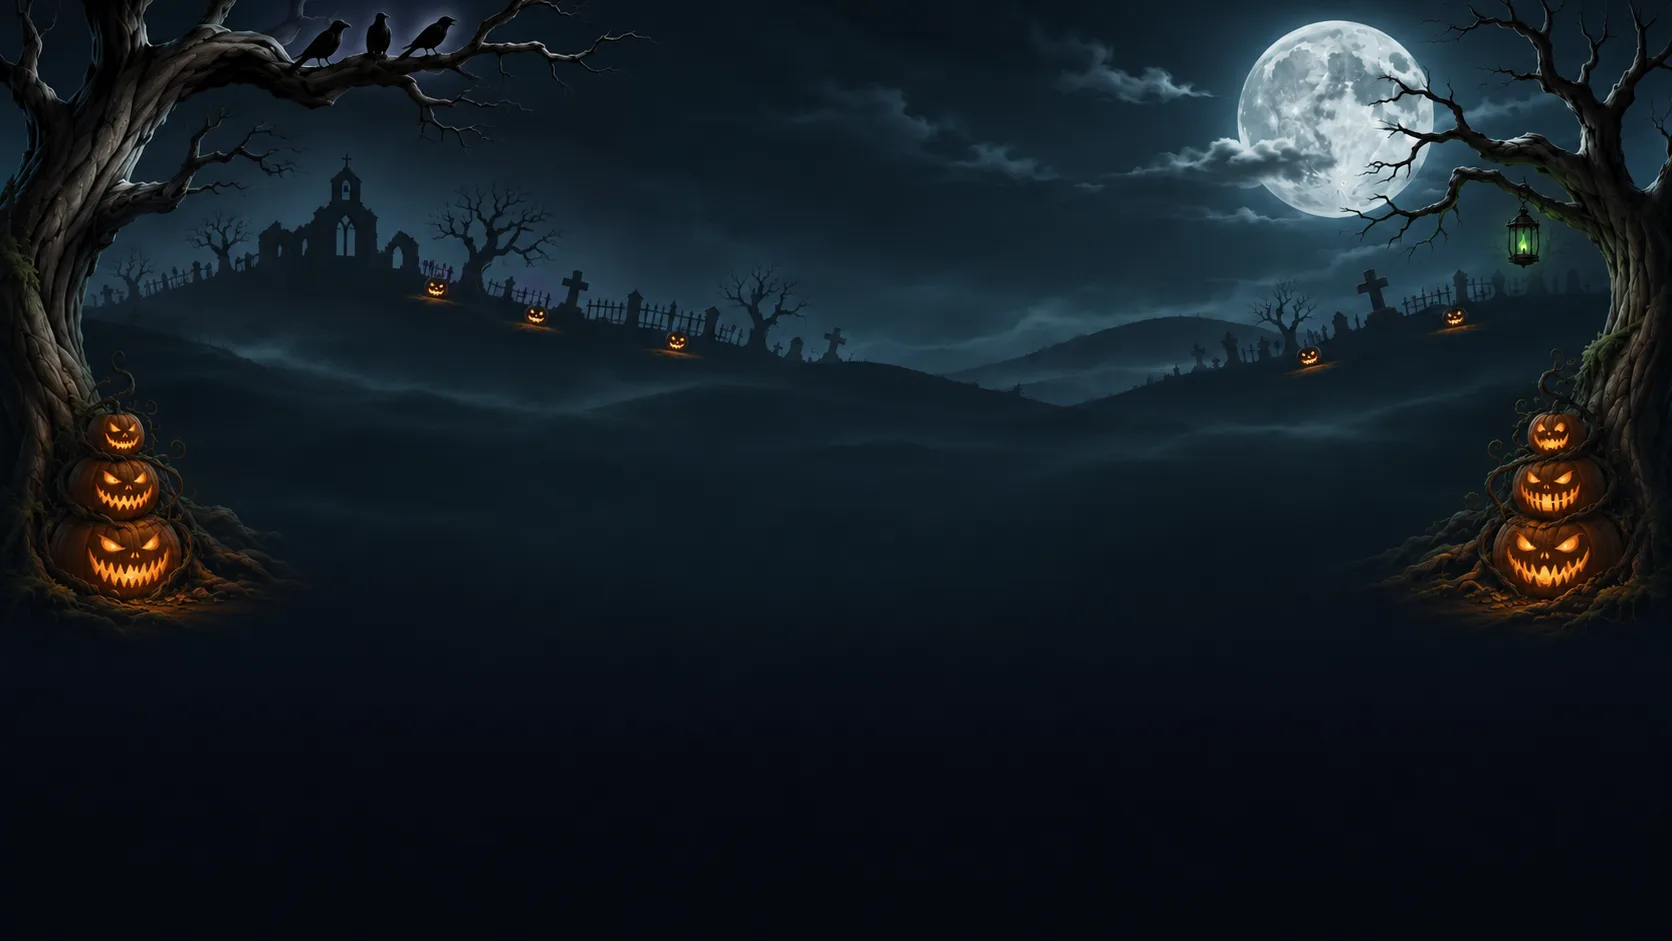
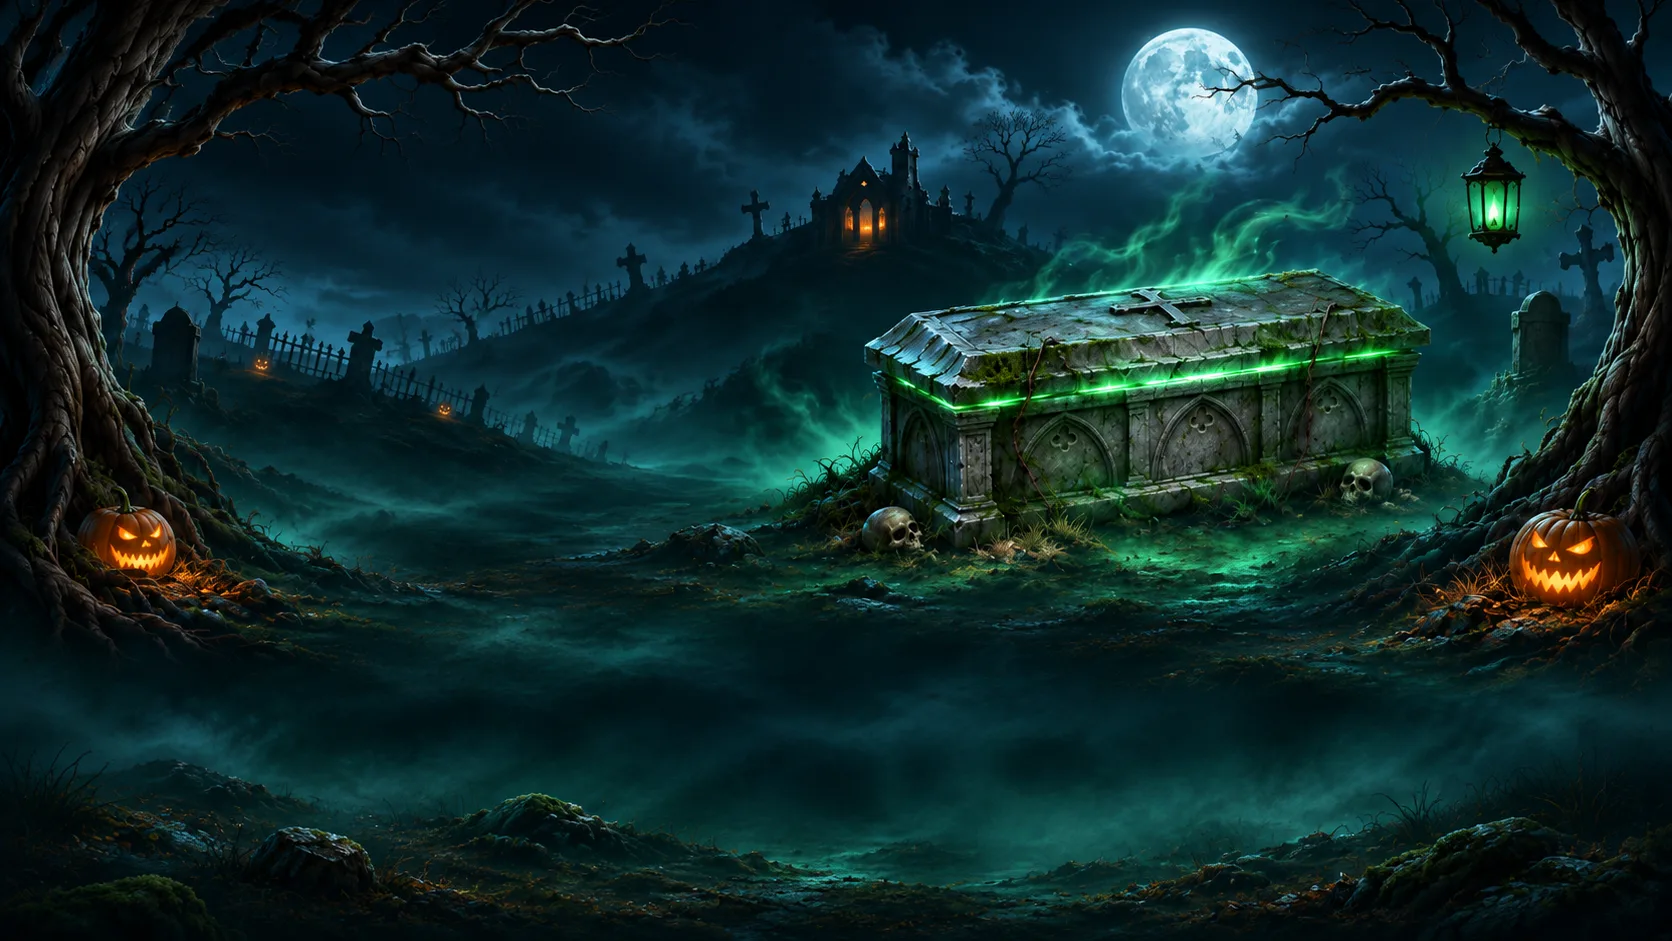
Web: switch to the user's necropolis backdrop and drop the far zombies
The user made a new backdrop (ChatGPT) matching their landing mockup:
greener and brighter, a lit chapel in the centre, pumpkins at the tree
feet, a green lantern and a sarcophagus with skulls in the middle
right (our drop zone goes over that in the next commit). Same
1672 x 941 framing, 173 KB as WebP.

All lights placed on the picture were moved to the new spots: moon
glow, chapel light (now on its three lit windows), two big and two
small pumpkin glows and the lantern; positions measured from bright
blobs in the picture where possible, the small pumpkins by eye. The
dark overlay on the sky is lighter so the painting reads as in the
mockup; the hero text has its own shadow. The far zombies are removed
(undead.ts, its rule and art/zombie-sheet.png): this picture has no
open ridge for them.

Checked: typecheck:web passes; viewed in the preview pane at
1440 x 900 with the glows held still. Not yet viewed in Chrome.

diff --git a/web/client/src/main.ts b/web/client/src/main.ts
@@ -4,7 +4,6 @@ import { svg } from './dom';
 import { renderJob } from './job';
 import { renderLanding } from './landing';
 import { renderResult } from './result';
-import { raiseTheDead } from './undead';
 
 const main = document.getElementById('main') as HTMLElement;
 let cleanup: (() => void) | null = null;
@@ -23,11 +22,9 @@ function decorate(): void {
     // Candle light flickering in the painted jack-o'-lanterns and the lantern: [class, x %, y %, width %],
     // measured on the backdrop. Each gets its own pace so they never pulse together.
     const flames: Array<[string, number, number, number]> = [
-      ['pumpkin-glow', 7.3, 46.2, 4], ['pumpkin-glow', 7.6, 52.1, 5.5], ['pumpkin-glow', 7.8, 59.5, 7],
-      ['pumpkin-glow', 92.7, 46.2, 4], ['pumpkin-glow', 92.7, 52.1, 5.5], ['pumpkin-glow', 92.7, 59.5, 7],
-      ['pumpkin-glow', 26.1, 30.5, 2.6], ['pumpkin-glow', 32.1, 33.5, 2.6], ['pumpkin-glow', 40.5, 36.2, 2.6],
-      ['pumpkin-glow', 78.2, 37.8, 2.6], ['pumpkin-glow', 86.9, 33.7, 2.6],
-      ['lantern-glow', 91.0, 25.7, 2.4],
+      ['pumpkin-glow', 8.4, 59.2, 7.5], ['pumpkin-glow', 93.4, 60.8, 8],
+      ['pumpkin-glow', 15.7, 38.5, 2.4], ['pumpkin-glow', 26.5, 43.6, 2.4],
+      ['lantern-glow', 89.5, 20.5, 3],
     ];
     for (const [c, x, y, w] of flames) {
       const el = document.createElement('span');
@@ -36,7 +33,6 @@ function decorate(): void {
       scene.append(el);
     }
     sky.prepend(scene);
-    raiseTheDead(scene);
     sky.append(svg(HORIZON));
     // Bats crossing the sky: a painted sprite (art/bat-sheet.webp) flapped and flown by CSS.
     // and now and then a ghost drifting through (art/ghost.webp), flown by CSS

diff --git a/web/client/src/styles/base.css b/web/client/src/styles/base.css
@@ -593,7 +593,7 @@ main:focus {
   content: '';
   position: absolute;
   inset: 0;
-  background: linear-gradient(180deg, rgba(5, 7, 11, 0.15) 0%, rgba(5, 7, 11, 0.45) 45%, rgba(5, 7, 11, 0.2) 100%);
+  background: linear-gradient(180deg, rgba(5, 7, 11, 0.12) 0%, rgba(5, 7, 11, 0.22) 45%, rgba(5, 7, 11, 0.15) 100%);
 }
 .sky .moon,
 .sky .stars,
@@ -618,9 +618,9 @@ main:focus {
 }
 
 .moon-glow {
-  left: 80.1%;
-  top: 12.6%;
-  width: 22%;
+  left: 71.1%;
+  top: 8%;
+  width: 19%;
   aspect-ratio: 1;
   background: radial-gradient(circle, rgba(200, 225, 240, 0.22) 0 26%, rgba(160, 200, 230, 0.1) 42%, transparent 68%);
   animation: moon-pulse 7s ease-in-out infinite alternate;
@@ -636,9 +636,9 @@ main:focus {
 
 /* the chapel window on the far hill: a candle someone left burning */
 .chapel-light {
-  left: 20.75%;
-  top: 25.2%;
-  width: 1.5%;
+  left: 51.75%;
+  top: 23.9%;
+  width: 3%;
   aspect-ratio: 1;
   background: radial-gradient(circle, rgba(255, 196, 110, 0.95) 0 22%, rgba(255, 150, 60, 0.35) 45%, transparent 70%);
   animation: candle 5.3s steps(1, end) infinite;
@@ -787,13 +787,4 @@ main:focus {
   82% {
     opacity: 0.45;
   }
-}
-
-/* One of the risen (undead.ts): a frame of the silhouette sheet, standing on a ridge of the backdrop. */
-.scene > .undead {
-  aspect-ratio: 100 / 146;
-  border-radius: 0;
-  background: url('/art/zombie-sheet.png') 0 0 / 1200% 100% no-repeat;
-  /* black like the ridges, with a faint moonlit rim so the figure reads against the night sky */
-  filter: brightness(0) drop-shadow(0 0 2px rgba(170, 200, 230, 0.5));
 }
